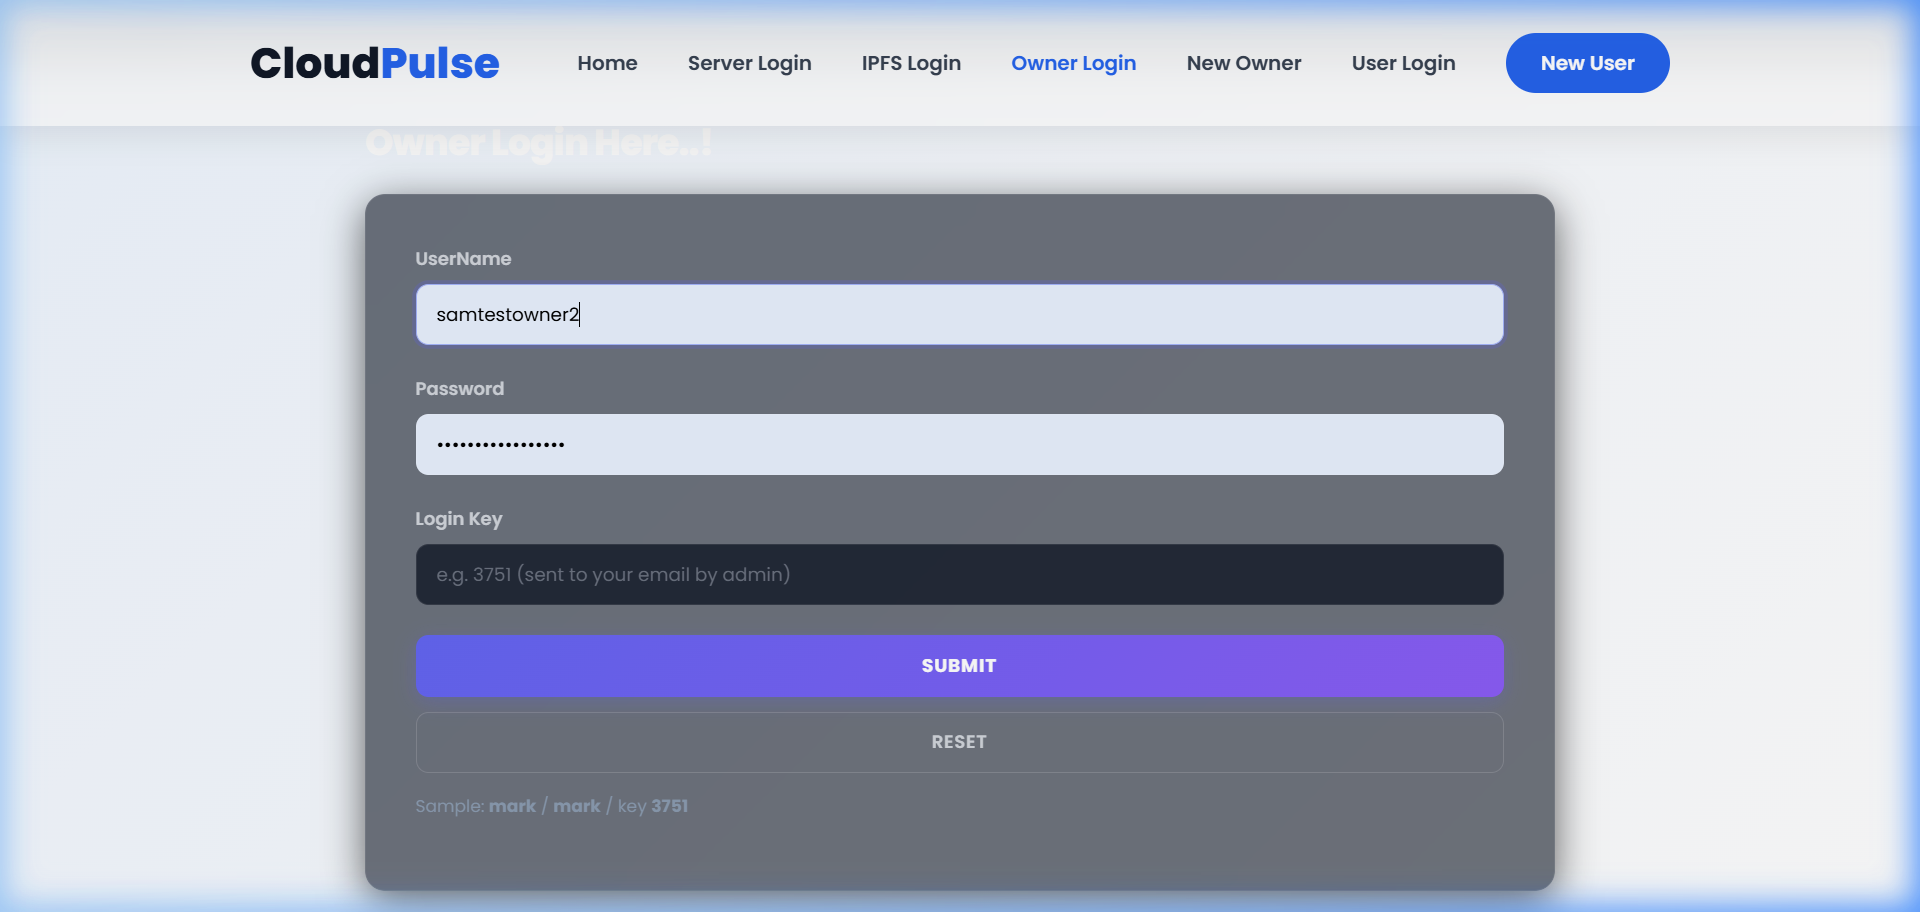
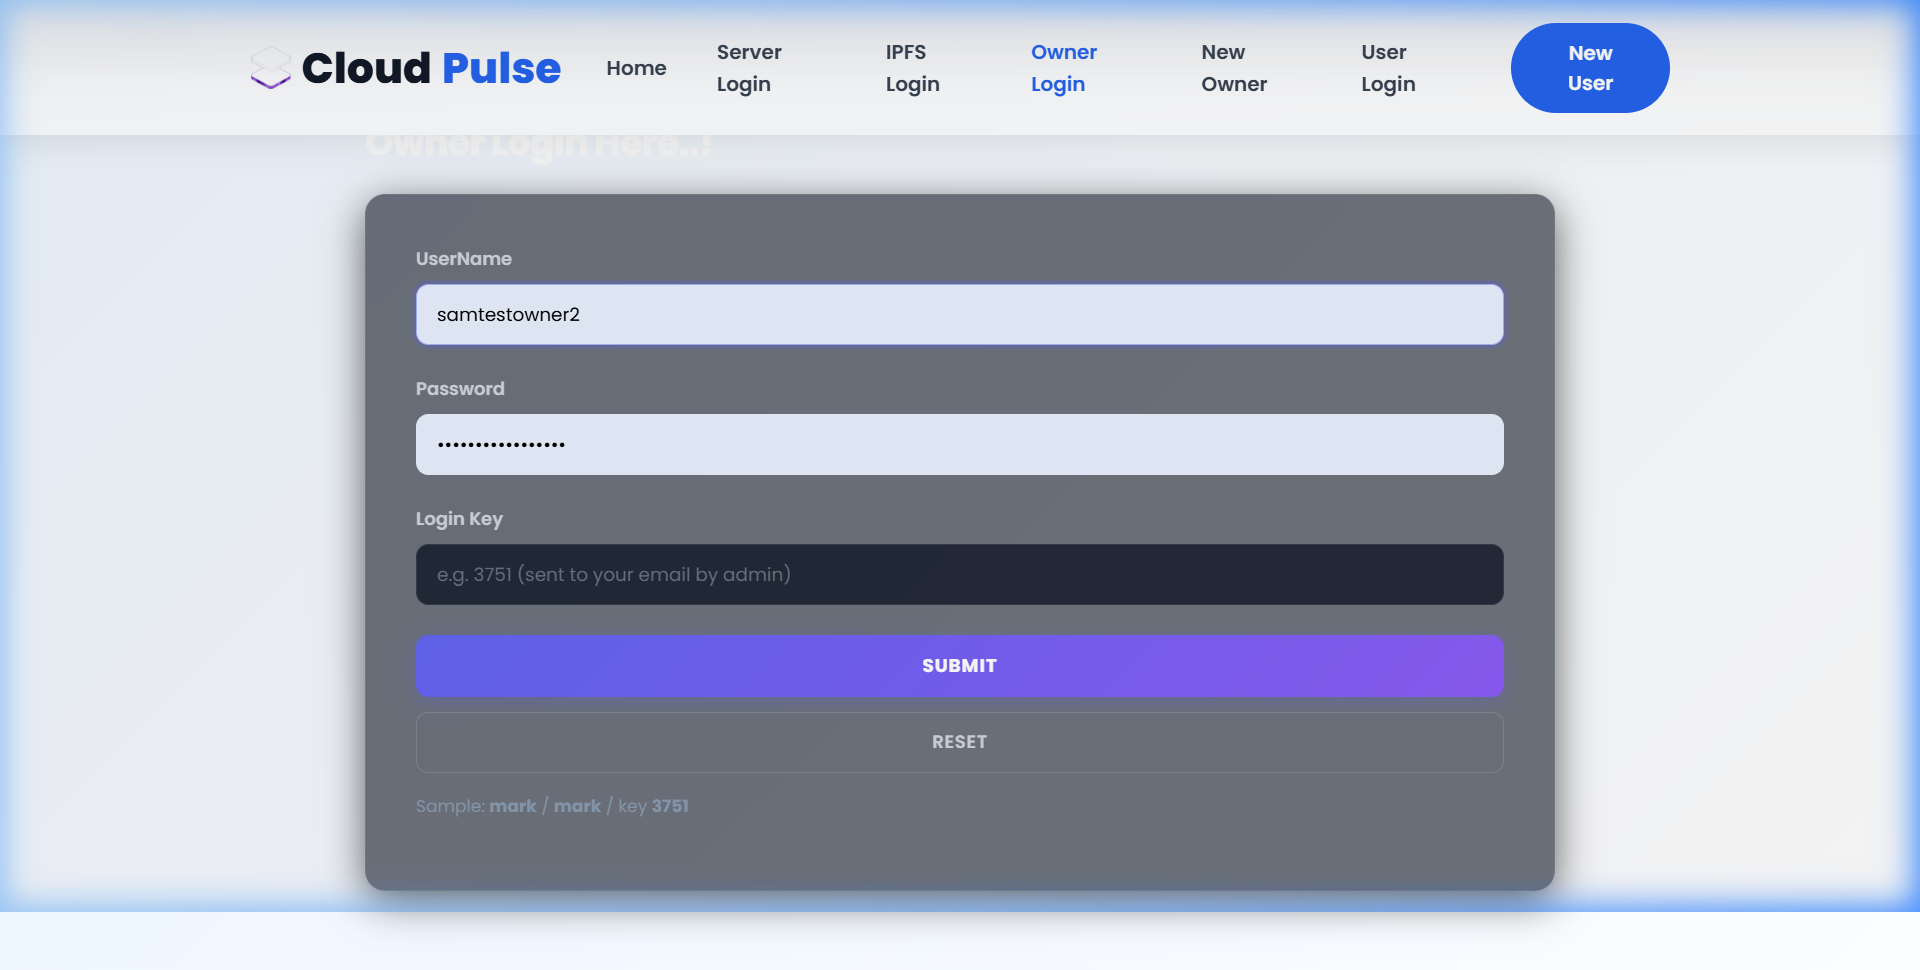
docs: update app screenshots in README

diff --git a/README.md b/README.md
@@ -99,6 +99,9 @@ The project intentionally implements **both vulnerable and secure API endpoints*
 ### User — Download Page
 ![User Download Page](images%20ex/7_user_download.png)
 
+### Register / Create Account
+![Register Page](images%20ex/8_register.png)
+
 ---
 
 ## 🚀 How to Run the Project